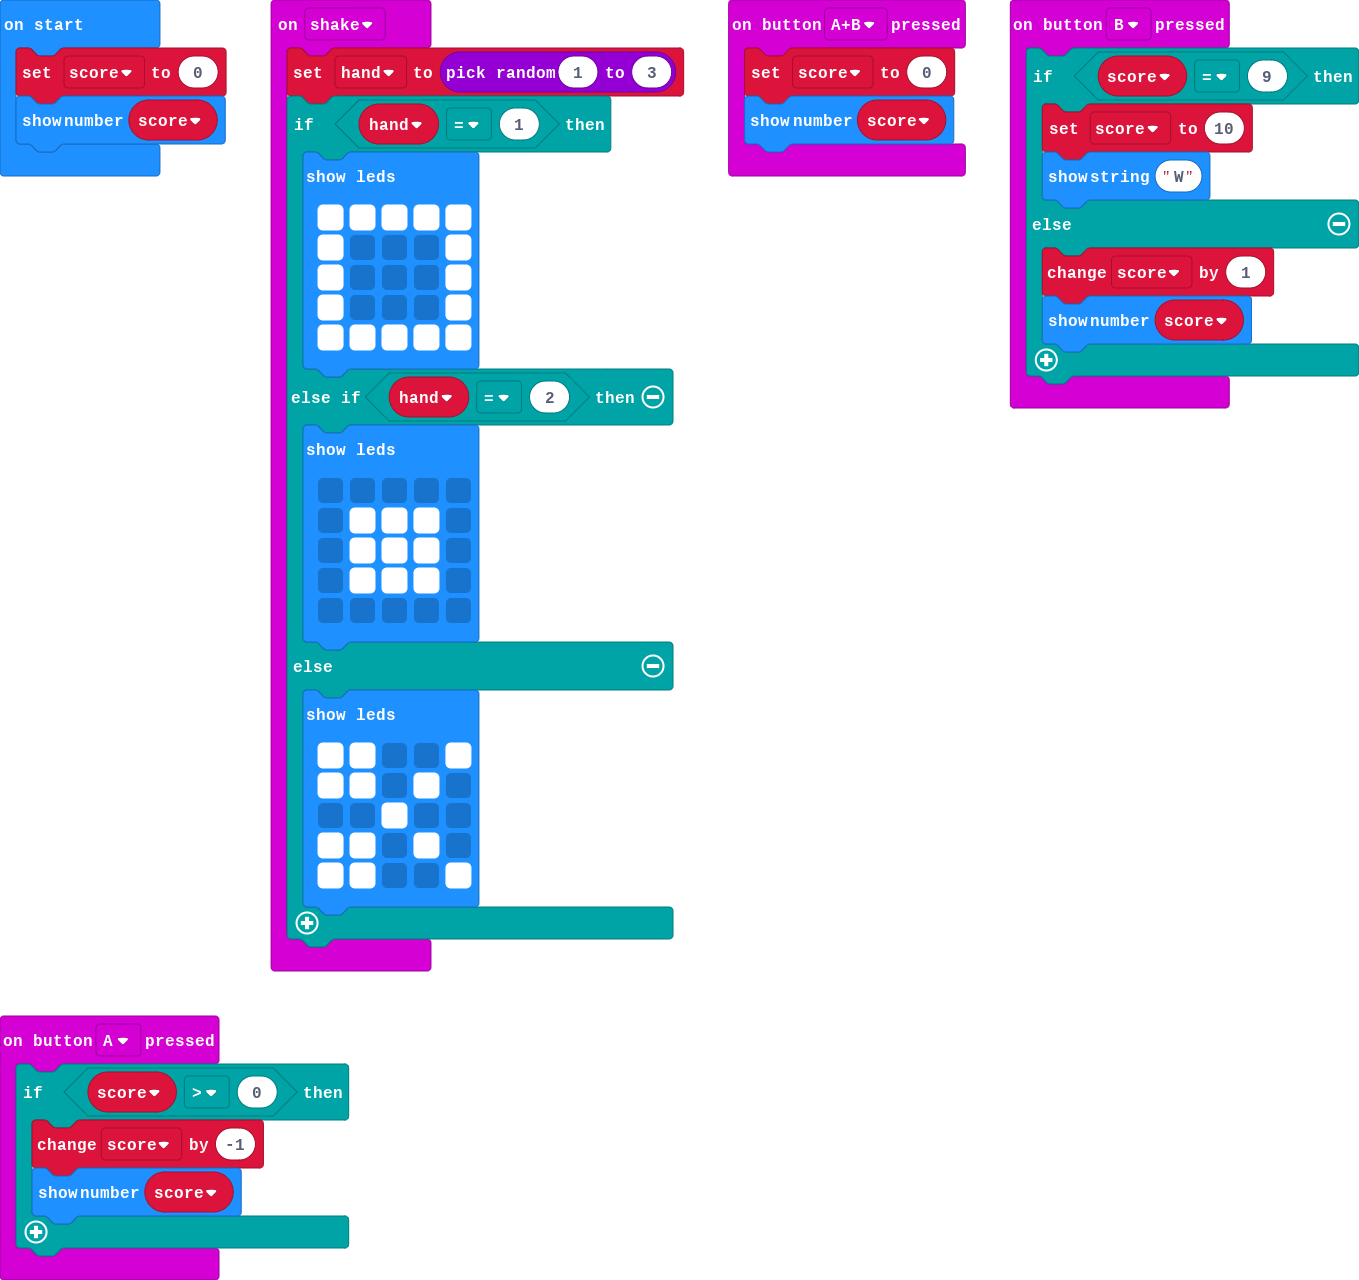
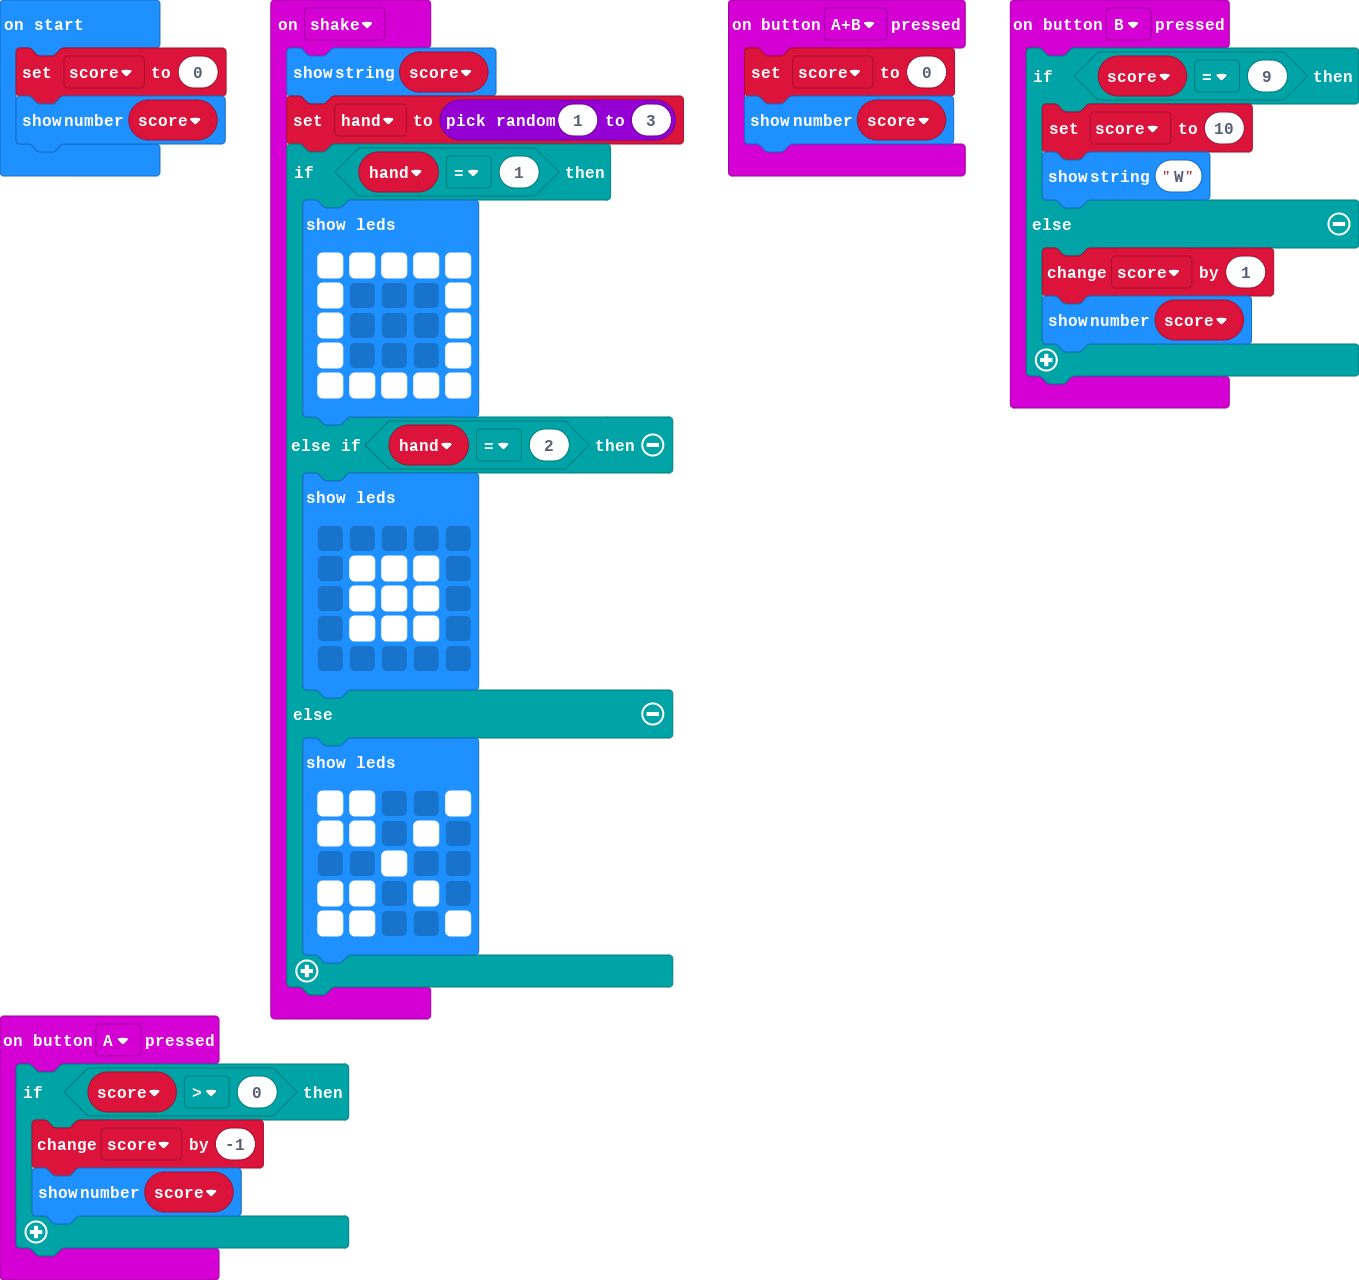
Update main.blocks, main.ts

Changed region(s): [[0.1854, 0.0312, 0.5254, 0.8125], [0.5563, 0.0, 0.5872, 0.0312]]

diff --git a/main.ts b/main.ts
@@ -1,4 +1,5 @@
 input.onGesture(Gesture.Shake, function () {
+    basic.showString("" + (score))
     hand = Math.randomRange(1, 3)
     if (hand == 1) {
         basic.showLeds(`
